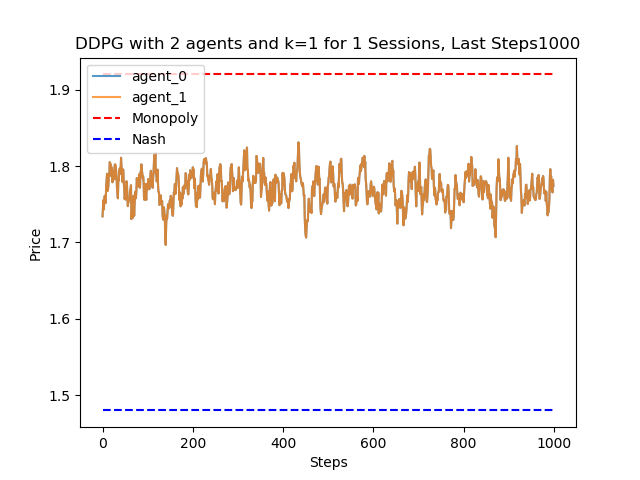
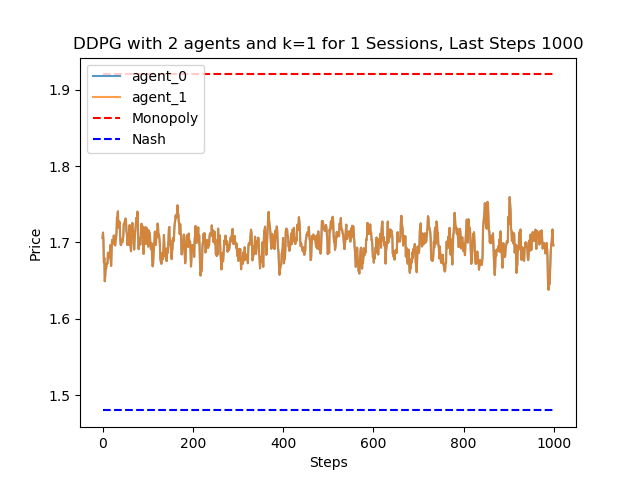
auto

Changed region(s): [[0.1562, 0.3125, 0.875, 0.5938], [0.0938, 0.0625, 0.9062, 0.125]]

diff --git a/gym_bertrand_test.py b/gym_bertrand_test.py
@@ -22,14 +22,14 @@ m = 15
 max_steps = 100000 # 1000000000 from Calvano paper
 convergence = 100000
 sessions = 1
-state_space = 'continuous' # 'discrete' or 'continuous'
+state_space = 'discrete' # 'discrete' or 'continuous'
 
 use_pickle = True
 num_gpus = 0
-overwrite_id = 0
+overwrite_id = 2
 len_eval_after_deviation = 20
 # choose from QL, DQN, PPO, A3C, DDPG, MADDPG
-trainer_choice = 'DDPG'
+trainer_choice = 'DQN'
 
 if state_space == 'discrete':
     env = BertrandCompetitionDiscreteEnv(num_agents=num_agents, k=k, m=m, max_steps=max_steps, sessions=sessions, convergence=convergence, trainer_choice=trainer_choice, use_pickle=use_pickle)
@@ -73,7 +73,8 @@ def eval_then_unload(observation):
 
     action_history_array = np.array(action_history_list).transpose()
     for i in range(num_agents):
-        env.action_history[env.players[i]] = action_history_array[i].tolist()
+        env.action_history[env.players[i]].extend(action_history_array[i].tolist())
+
 
 
 
@@ -148,12 +149,12 @@ if trainer_choice != 'QL':
         # Deviate downwards
         observation = env.deviate(direction='down')
         eval_then_unload(observation)
-        env.plot_last(last_n=21, title_str='_down_deviation', overwrite_id=overwrite_id)
+        env.plot_last(last_n=30, title_str='_down_deviation', overwrite_id=overwrite_id)
 
         # Deviate upwards
         observation = env.deviate(direction='up')
         eval_then_unload(observation)
-        env.plot_last(last_n=21, title_str='_up_deviation', overwrite_id=overwrite_id)
+        env.plot_last(last_n=30, title_str='_up_deviation', overwrite_id=overwrite_id)
 
         os.remove(savefile)
 else:

diff --git a/gym_bertrandcompetition/envs/bertrand_competition_continuous.py b/gym_bertrandcompetition/envs/bertrand_competition_continuous.py
@@ -191,7 +191,7 @@ class BertrandCompetitionContinuousEnv(MultiAgentEnv):
         plt.plot(x, np.repeat(self.pN, last_n), 'b--', label='Nash')
         plt.xlabel('Steps')
         plt.ylabel('Price')
-        plt.title(self.trainer_choice + ' with ' + str(self.num_agents) + ' agents and k=' + str(self.k) + ' for ' + str(self.sessions) + ' Sessions, Last Steps' + str(last_n))
+        plt.title(self.trainer_choice + ' with ' + str(self.num_agents) + ' agents and k=' + str(self.k) + ' for ' + str(self.sessions) + ' Sessions, Last Steps ' + str(last_n) + title_str)
         plt.legend(loc='upper left')
         plt.savefig('./figures/' + self.savefile + title_str + '_last_steps_' + str(last_n) + '_' + str(overwrite_id))
         plt.clf()

diff --git a/gym_bertrandcompetition/envs/bertrand_competition_discrete.py b/gym_bertrandcompetition/envs/bertrand_competition_discrete.py
@@ -205,7 +205,7 @@ class BertrandCompetitionDiscreteEnv(MultiAgentEnv):
         plt.plot(x, np.repeat(self.pN, last_n), 'b--', label='Nash')
         plt.xlabel('Steps')
         plt.ylabel('Price')
-        plt.title(self.trainer_choice + ' with ' + str(self.num_agents) + ' agents and k=' + str(self.k) + ' for ' + str(self.sessions) + ' Sessions, Last Steps ' + str(last_n))
+        plt.title(self.trainer_choice + ' with ' + str(self.num_agents) + ' agents and k=' + str(self.k) + ' for ' + str(self.sessions) + ' Sessions, Last Steps ' + str(last_n) + title_str)
         plt.legend()
         plt.savefig('./figures/' + self.savefile + title_str + '_last_steps_' + str(last_n) + '_' + str(overwrite_id))
         plt.clf()
